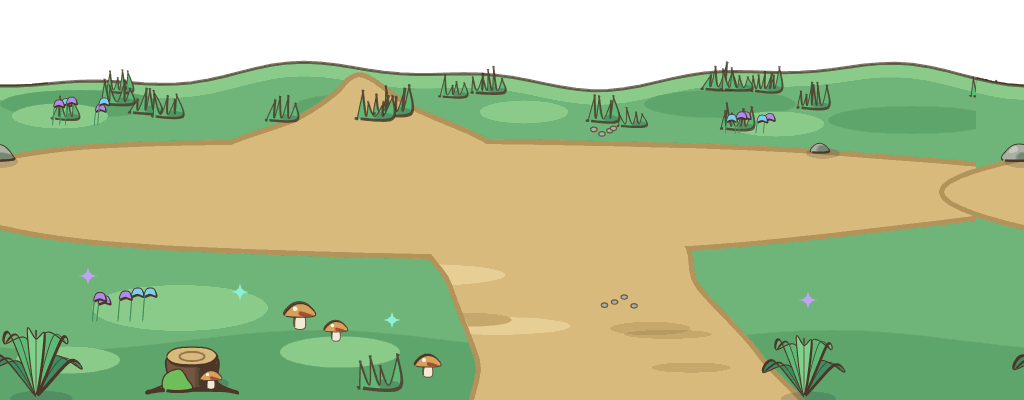
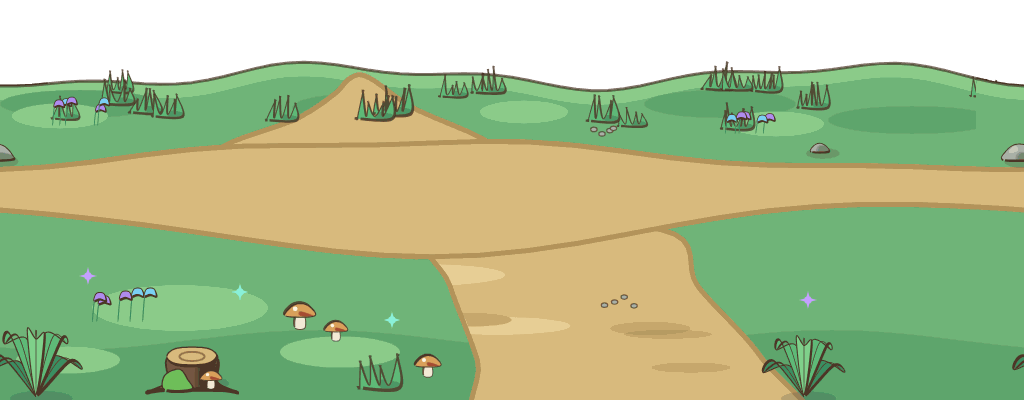
The screen fills the phone, the fight's bars go under the feet, a town street gives something
Robin's notes from his phone (2026-11-02).

The screen: the page's flex box and Phaser both centred the canvas, which pushed the game to one
side. Now only the page does. The canvas widens to the screen's shape, up to 620 design pixels
(mine), with the 412 column staying in the middle; the board, panels, veils, fight backdrops and
the character screen take the full width. Mitch, AD's ground strips recopied, their road runs on
past both sides.

The fight: health above mana (Robin), and the bars and words under the fighters' feet (Robin), on
the ground. Compact styling waits for Robin's pick from Mitch, AD's options.

Town spots: a street is never empty now; a small kindness, some health, mana or a few coins (mine,
for Robin to feel). The HUD and the landing line say the place's name, or "The road".

diff --git a/Game Developer/client/src/scenes/FightScene.ts b/Game Developer/client/src/scenes/FightScene.ts
@@ -16,7 +16,7 @@ import { abilityIcon, fly, HeldEffects, Owl, playOnce, preloadEffects } from '..
 import { sfx } from '../feel.ts';
 import { Hero, HERO_FIGHT_SCALE, heroReady } from '../hero.ts';
 import { INK, kitReady, plate } from '../kit.ts';
-import { COLORS, DESIGN_WIDTH, FONT, HUD_HEIGHT, FONT_DISPLAY } from '../layout.ts';
+import { COLORS, DESIGN_WIDTH, FONT, HUD_HEIGHT, FONT_DISPLAY, SCREEN_WIDTH } from '../layout.ts';
 import type { GameHolder } from '../game-holder.ts';
 import { gearIn, type Prize } from '../loot.ts';
 import { rememberMessage } from '../messages.ts';
@@ -53,6 +53,8 @@ const METER_PIP: Partial<Record<ClassId, string>> = { rogue: 'fight/meter-pip-tr
 
 /** The title stops short of the ? at the top right. */
 const TITLE_X = 180;
+/** How far under the fighters' feet the first bar sits. */
+const BAR_BELOW = 20;
 const TITLE_W = 340;
 
 /** Where the buttons sit, in design pixels (the driver taps them here). Two rows of two, and a row for Flee or Back. */
@@ -117,8 +119,6 @@ export class FightScene extends Phaser.Scene {
   private held!: HeldEffects;
   private owl: Owl | null = null;
   private feetY = 0;
-  private tallEnemy = false;
-  private enemyBarY = 0;
   private heroBar!: Bar;
   private manaBar!: Bar;
   private heroStatus!: Phaser.GameObjects.Text;
@@ -177,13 +177,13 @@ export class FightScene extends Phaser.Scene {
     this.enemyMaxHp = enemy.maxHp;
 
     // The screen covers the band and the HUD's strip and takes every touch, so nothing reaches the board under it.
-    this.add.rectangle(CENTRE, (HUD_HEIGHT + DESIGN_WIDTH * 0 + 915) / 2, DESIGN_WIDTH, 915 - HUD_HEIGHT, 0x151826, 1).setInteractive();
+    this.add.rectangle(CENTRE, (HUD_HEIGHT + DESIGN_WIDTH * 0 + 915) / 2, SCREEN_WIDTH, 915 - HUD_HEIGHT, 0x151826, 1).setInteractive();
     const board = this.game_.state.board;
     const theme = board.areas[board.spaces[fight.space]?.area ?? '']?.theme ?? board.areas[board.spaces[me.space]?.area ?? '']?.theme ?? 'meadow';
     this.backdrop = new Backdrop(this, theme, L.groundY, L.stripY);
     const kit = kitReady(this);
     if (kit) {
-      plate(this, 'panel_bottom', CENTRE, (L.stripY + 915) / 2, DESIGN_WIDTH, 915 - L.stripY);
+      plate(this, 'panel_bottom', CENTRE, (L.stripY + 915) / 2, SCREEN_WIDTH, 915 - L.stripY);
       plate(this, 'panel_message', CENTRE, L.messageY + 22, 384, 56);
     }
     const feetY = this.backdrop.feetY;
@@ -201,7 +201,6 @@ export class FightScene extends Phaser.Scene {
     // The contact shadows, then the figures, so they stand on the ground.
     this.add.ellipse(L.heroX, feetY, 64, 16, 0x000000, 0.22);
     const enemyArt = creatureReady(this, enemy.id);
-    let enemyTop: number;
     if (enemyArt) {
       this.enemy = new Figure(this, enemy.id, L.enemyX, feetY);
       if (enemy.phase === 2) this.enemy.setPhase(2);
@@ -209,34 +208,28 @@ export class FightScene extends Phaser.Scene {
       this.add.ellipse(L.enemyX + shadow.dx, feetY, shadow.width, Math.max(14, shadow.width * 0.16), 0x000000, 0.22);
       this.enemy.sprite.setDepth(1);
       this.enemyBody = this.enemy.sprite;
-      enemyTop = feetY - this.enemy.headHeight();
     } else {
       this.add.ellipse(L.enemyX, feetY, 110, 20, 0x000000, 0.22);
       this.enemyBody = this.add.circle(L.enemyX, feetY - 56, 56, ENEMY_COLORS[enemy.role] ?? 0x8f2f3b, 1).setStrokeStyle(4, 0x101318, 1);
       this.add.text(L.enemyX, feetY - 56, enemy.name.charAt(0), { fontFamily: FONT, fontSize: '40px', fontStyle: 'bold', color: '#101318' }).setOrigin(0.5);
-      enemyTop = feetY - 112;
     }
     const enemyBarX = Math.min(L.enemyX, DESIGN_WIDTH - L.barW / 2 - 8);
-    this.enemyBar = new Bar(this, enemyBarX, enemyTop - 26, L.barW, BAR_H, 0xd9534f);
-    // A boss too tall for words over his bar has them under it, clear of the title (mine, 2026-11-02).
-    this.tallEnemy = enemyTop - 26 < L.historyY + 70;
-    this.enemyBarY = enemyTop - 26;
-    this.enemyStatus = this.add.text(enemyBarX, this.tallEnemy ? enemyTop - 12 : enemyTop - 48, '', { fontFamily: FONT, fontSize: '15px', fontStyle: 'bold', color: '#ffd166', stroke: '#1a2030', strokeThickness: 4, align: 'center', wordWrap: { width: 2 * (DESIGN_WIDTH - enemyBarX - 8) } }).setOrigin(0.5, this.tallEnemy ? 0 : 1);
+    // Under the feet, on the ground (Robin, 2026-11-02: "healthbars etc should be under the characters... It can look a little messy and cluttery").
+    this.enemyBar = new Bar(this, enemyBarX, feetY + BAR_BELOW, L.barW, BAR_H, 0xd9534f);
+    this.enemyStatus = this.add.text(enemyBarX, feetY + BAR_BELOW + 14, '', { fontFamily: FONT, fontSize: '15px', fontStyle: 'bold', color: '#ffd166', stroke: '#1a2030', strokeThickness: 4, align: 'center', wordWrap: { width: 2 * (DESIGN_WIDTH - enemyBarX - 8) } }).setOrigin(0.5, 0);
 
-    let heroTop: number;
-    if (heroReady(this, me.classId)) {
+        if (heroReady(this, me.classId)) {
       this.hero = new Hero(this, me, L.heroX, feetY, HERO_FIGHT_SCALE);
       this.hero.face(true);
       this.heroBody = this.hero.root;
-      heroTop = feetY - 150;
     } else {
       this.heroBody = this.add.circle(L.heroX, feetY - 26, 26, CLASS_COLORS[me.classId] ?? 0xffffff, 1).setStrokeStyle(3, 0x101318, 1);
       this.add.text(L.heroX, feetY - 26, cls.name.charAt(0), { fontFamily: FONT, fontSize: '22px', fontStyle: 'bold', color: '#101318' }).setOrigin(0.5);
-      heroTop = feetY - 52;
     }
-    this.heroBar = new Bar(this, L.heroBarX, heroTop - 26, L.barW, BAR_H, COLORS.button);
-    this.manaBar = new Bar(this, L.heroBarX, heroTop - 44, L.barW, 12, COLORS.mana, 0, 'MP');
-    this.heroStatus = this.add.text(L.heroBarX, heroTop - 56, '', { fontFamily: FONT, fontSize: '14px', fontStyle: 'bold', color: '#b8fff4', stroke: '#1a2030', strokeThickness: 4, align: 'center', wordWrap: { width: 2 * (L.heroBarX - 6) } }).setOrigin(0.5, 1);
+    // Health above mana (Robin, 2026-11-02).
+    this.heroBar = new Bar(this, L.heroBarX, feetY + BAR_BELOW, L.barW, BAR_H, COLORS.button);
+    this.manaBar = new Bar(this, L.heroBarX, feetY + BAR_BELOW + 18, L.barW, 12, COLORS.mana, 0, 'MP');
+    this.heroStatus = this.add.text(L.heroBarX, feetY + BAR_BELOW + 28, '', { fontFamily: FONT, fontSize: '14px', fontStyle: 'bold', color: '#b8fff4', stroke: '#1a2030', strokeThickness: 4, align: 'center', wordWrap: { width: 2 * (L.heroBarX - 6) } }).setOrigin(0.5, 0);
 
     this.message = this.add
       .text(CENTRE, L.messageY + 22, fight.shared ? 'A world boss: all who land here fight the same beast and share the reward.' : `${enemy.name} blocks the way!${tips.take('fight') ? ` ${TIP_FIGHT}` : ''}`, { fontFamily: FONT, fontSize: settings.font(15), color: kit ? INK : COLORS.text, align: 'center', wordWrap: { width: 356 } })
@@ -781,9 +774,7 @@ ${used ? 'used' : `${mana} MP${cost ? ` · ${cost}` : ''}`}`,
     this.held.set('poison_drip', !!f.poisoned, heroHead.x, heroHead.y);
     this.held.set('weaken', !!f.weak, heroHead.x, heroHead.y);
     this.held.set('bubble_shield', !!f.barrier, heroChest.x, heroChest.y, 'bubble', 'bubble_pop');
-    // Beside the bar on a tall boss, where it is not under the words.
-    if (this.tallEnemy) this.held.set('windup_tell', !!e.charged, FIGHT_LAYOUT.enemyX - FIGHT_LAYOUT.barW / 2 - 14, this.enemyBarY + 6);
-    else this.held.set('windup_tell', !!e.charged, foeHead.x, foeHead.y - 14);
+    this.held.set('windup_tell', !!e.charged, foeHead.x, Math.max(foeHead.y - 14, FIGHT_LAYOUT.historyY + 34));
     this.held.set('poison_drip', !!e.poison, foeHead.x, foeHead.y + 20);
     this.held.set('weaken', !!e.weakened, foeChest.x, foeChest.y);
     this.held.set('chill', !!e.stunned, foeChest.x, foeChest.y);

diff --git a/Game Developer/client/src/scenes/BoardScene.ts b/Game Developer/client/src/scenes/BoardScene.ts
@@ -39,6 +39,7 @@ import {
   type SpaceKind,
   groundsOf,
   questLine,
+  placeName,
 } from '../../../rules/src/index.ts';
 import type { GameLog } from '../game-log.ts';
 import { audio } from '../audio.ts';
@@ -51,7 +52,7 @@ import { preloadAbilityIcons } from '../effects.ts';
 import { PaintedGround, PAINTED, preloadWorldMap, SEA } from '../worldmap.ts';
 import { fx, hasFrame, icon, itemFrame, preloadKit } from '../kit.ts';
 import { lootReady, preloadLoot, prizesIn, type Prize, type RevealRequest } from '../loot.ts';
-import { COLORS, DESIGN_WIDTH, DPR, FONT, HUD_HEIGHT, THEME_COLORS, VIEW_HEIGHT } from '../layout.ts';
+import { COLORS, DESIGN_WIDTH, DPR, FONT, HUD_HEIGHT, THEME_COLORS, VIEW_HEIGHT, SCREEN_WIDTH } from '../layout.ts';
 import type { GameHolder, Intent, WorldChange } from '../game-holder.ts';
 import { settings } from '../settings.ts';
 import { tips } from '../tips.ts';
@@ -1114,7 +1115,7 @@ export class BoardScene extends Phaser.Scene {
     const cam = this.cameras.main;
     // The band between the HUD panel and the bottom controls; the HUD scene draws over the rest.
     // The band between the HUD and the strip, in canvas pixels (the canvas draws at DPR, hires.ts).
-    cam.setViewport(0, HUD_HEIGHT * DPR, DESIGN_WIDTH * DPR, VIEW_HEIGHT * DPR);
+    cam.setViewport(0, HUD_HEIGHT * DPR, SCREEN_WIDTH * DPR, VIEW_HEIGHT * DPR);
     this.fitBounds();
     cam.setRoundPixels(true);
     this.minZoom = this.overviewZoom();
@@ -1679,7 +1680,8 @@ export class BoardScene extends Phaser.Scene {
     this.walk(walked?.type === 'moved' ? walked.path : path, () => {
       const space = this.game_.state.board.spaces[landed.space]!;
       const kind = SPACE_KIND_DATA[space.kind].label.toLowerCase();
-      const where = space.name ? `on ${space.name} (${kind})` : space.kind === 'normal' ? 'in the wilds' : `on a ${kind}`;
+      const place = placeName(this.game_.state.board, space);
+      const where = space.name ? `on ${space.name} (${kind})` : place ? `in ${place}` : space.kind === 'normal' ? 'on the road' : `on a ${kind}`;
       const notes = traceLine(this.game_.state, landed.space, this.game_.now());
       const story = `${this.describeLanding(moved)}${notes ? ` ${notes}` : ''}`.trim();
       this.log.note(`landed on ${space.id} (${space.kind}): ${story || 'nothing'}`);
@@ -1785,7 +1787,7 @@ export class BoardScene extends Phaser.Scene {
     const s = stats(me);
     const space = this.game_.state.board.spaces[me.space];
     const area = space ? this.game_.state.board.areas[space.area] : undefined;
-    const where = space ? space.name || SPACE_KIND_DATA[space.kind].label : me.space;
+    const where = space ? space.name || placeName(this.game_.state.board, space) || (space.kind === 'normal' ? 'The road' : SPACE_KIND_DATA[space.kind].label) : me.space;
     const withOthers = Object.values(this.game_.state.characters).filter((c) => c.id !== me.id && c.space === me.space).map((c) => c.name);
     if (area) audio.music(`music/${area.theme === 'meadow' ? 'meadows' : area.theme}-board`);
     // A new area: what was only for the last one leaves memory (chapter 2, step 1). A fight loads its own.

diff --git a/Game Developer/rules/src/game.ts b/Game Developer/rules/src/game.ts
@@ -329,11 +329,8 @@ function land(state: GameState, c: Character, space: Space, action: Action, rng:
       if (quest?.kind === 'mini' && quest.area === space.area && quest.target && rng.next() < QUESTS.kinds.mini.spawnChance!) {
         return begin(state, c, quest.target, space.id, false, action, rng, events);
       }
-      // Nothing hunts inside a town's walls (mine, from Mitch, AD's map): a creature lives only in its own place (Robin, 2026-11-02).
-      if (inTownWalls(state.board, space)) {
-        events.push({ type: 'nothing', action: id, player, text: 'Safe inside the town walls.' });
-        return { state: withCharacter(state, c), events };
-      }
+      // Nothing hunts inside a town's walls (Robin, 2026-11-02: creatures only in their own place), and a street is never empty: "its weird with town spaces where nothing happens".
+      if (inTownWalls(state.board, space)) return streetMoment(state, c, tier, action, rng, events);
       const what = surprise(rng);
       if (what === 'chest') return openChest(state, c, tier, space.area, action, rng, events);
       if (what === 'event' && area && EVENTS[area.theme]) return themeEvent(state, c, area.theme, tier, action, rng, events);
@@ -479,6 +476,17 @@ function openChest(state: GameState, c: Character, tier: number, areaId: string,
     next = roll < 0.4 ? giveItem(next, flaskId('potion', tier), 1, action, events) : roll < 0.6 ? giveItem(next, flaskId('mana-potion', tier), 1, action, events) : giveItem(next, cards[rng.int(cards.length) - 1]!, 1, action, events);
   }
   return { state: withCharacter(s, next), events };
+}
+
+/** A moment on a town's street: a little kindness, drawn from the stream. */
+function streetMoment(state: GameState, c: Character, tier: number, action: Action, rng: Rng, events: GameEvent[]): ApplyResult {
+  const lines = (EVENTS as unknown as { streets: { text: string; kind: 'heal' | 'mana' | 'gold'; value: number }[] }).streets;
+  const ev = lines[rng.int(lines.length) - 1]!;
+  const s = stats(c);
+  const amount = ev.kind === 'gold' ? ev.value * tier : Math.max(1, Math.round((ev.kind === 'heal' ? s.maxHp : s.maxMana) * ev.value));
+  events.push({ type: 'themeEvent', action: action.id, player: action.player, text: ev.text, kind: ev.kind, amount });
+  const next = ev.kind === 'gold' ? giveGold(c, amount, action, events) : ev.kind === 'heal' ? heal(c, amount, action, events) : restoreMana(c, amount, action, events);
+  return { state: withCharacter(state, next), events };
 }
 
 /** The theme's event on a wild spot (mine, 2026-11-01): a share of HP or mana, gold by the tier, a flask or a card. */

diff --git a/Game Developer/client/src/scenes/HudScene.ts b/Game Developer/client/src/scenes/HudScene.ts
@@ -6,7 +6,7 @@
 import Phaser from 'phaser';
 import { CLASS_DATA, WORLD_DATA } from '../../../rules/src/index.ts';
 import type { GameLog } from '../game-log.ts';
-import { COLORS, DESIGN_HEIGHT, DESIGN_WIDTH, FONT, FONT_DISPLAY, HUD_HEIGHT, VIEW_HEIGHT } from '../layout.ts';
+import { COLORS, DESIGN_HEIGHT, DESIGN_WIDTH, FONT, FONT_DISPLAY, HUD_HEIGHT, VIEW_HEIGHT, SCREEN_WIDTH } from '../layout.ts';
 import type { GameHolder } from '../game-holder.ts';
 import { audio, type LoopHandle } from '../audio.ts';
 import { feel } from '../feel.ts';
@@ -331,8 +331,8 @@ export class HudScene extends Phaser.Scene {
   private drawPanel(): void {
     const cream = this.kit ? CREAM : COLORS.text;
     const dim = this.kit ? '#fff8e8' : COLORS.dim;
-    if (this.kit) plate(this, 'panel_hud', DESIGN_WIDTH / 2, HUD_HEIGHT / 2, DESIGN_WIDTH, HUD_HEIGHT);
-    else this.add.rectangle(DESIGN_WIDTH / 2, HUD_HEIGHT / 2, DESIGN_WIDTH, HUD_HEIGHT, COLORS.panel, 1);
+    if (this.kit) plate(this, 'panel_hud', DESIGN_WIDTH / 2, HUD_HEIGHT / 2, SCREEN_WIDTH, HUD_HEIGHT);
+    else this.add.rectangle(DESIGN_WIDTH / 2, HUD_HEIGHT / 2, SCREEN_WIDTH, HUD_HEIGHT, COLORS.panel, 1);
     this.name = this.add.text(16, 10, '', { fontFamily: FONT_DISPLAY, fontSize: '20px', fontStyle: 'bold', color: cream, stroke: '#3a2410', strokeThickness: 3 });
     this.levelText = this.add.text(DESIGN_WIDTH - 92, 14, '', { fontFamily: FONT_DISPLAY, fontSize: '16px', fontStyle: 'bold', color: cream, stroke: '#3a2410', strokeThickness: 3 }).setOrigin(1, 0);
 
@@ -368,8 +368,8 @@ export class HudScene extends Phaser.Scene {
   private drawControls(): void {
     // The band under the world: the chips, the message box and the buttons, so the world never shows through there.
     const stripTop = HUD_HEIGHT + VIEW_HEIGHT;
-    if (this.kit) plate(this, 'panel_bottom', DESIGN_WIDTH / 2, (stripTop + DESIGN_HEIGHT) / 2, DESIGN_WIDTH, DESIGN_HEIGHT - stripTop);
-    else this.add.rectangle(DESIGN_WIDTH / 2, (stripTop + DESIGN_HEIGHT) / 2, DESIGN_WIDTH, DESIGN_HEIGHT - stripTop, COLORS.panel, 1);
+    if (this.kit) plate(this, 'panel_bottom', DESIGN_WIDTH / 2, (stripTop + DESIGN_HEIGHT) / 2, SCREEN_WIDTH, DESIGN_HEIGHT - stripTop);
+    else this.add.rectangle(DESIGN_WIDTH / 2, (stripTop + DESIGN_HEIGHT) / 2, SCREEN_WIDTH, DESIGN_HEIGHT - stripTop, COLORS.panel, 1);
     this.chipRow = this.add.container(DESIGN_WIDTH / 2, CHIPS_Y);
 
     if (this.kit) this.messagePlate = plate(this, 'panel_message', DESIGN_WIDTH / 2, MESSAGE_BOTTOM - 22, MESSAGE_W, 44);

diff --git a/Game Developer/client/src/scenes/CreateScene.ts b/Game Developer/client/src/scenes/CreateScene.ts
@@ -8,7 +8,7 @@ import { ABILITIES, CLASS_DATA, CLASS_IDS, MAX_NAME, plainGear, WORLD_DATA, type
 import { Hero, heroReady, preloadHero, releaseClasses } from '../hero.ts';
 import type { GameHolder } from '../game-holder.ts';
 import type { GameLog } from '../game-log.ts';
-import { COLORS, DESIGN_HEIGHT, DESIGN_WIDTH, FONT, FONT_DISPLAY } from '../layout.ts';
+import { COLORS, DESIGN_HEIGHT, DESIGN_WIDTH, FONT, FONT_DISPLAY, SCREEN_WIDTH } from '../layout.ts';
 import { feel, sfx } from '../feel.ts';
 import backdropJpg from '../../../assets/brand/character_backdrop.jpg';
 import wordmarkPng from '../../../assets/brand/wordmark.png';
@@ -77,7 +77,7 @@ export class CreateScene extends Phaser.Scene {
   }
 
   create(): void {
-    if (this.textures.exists('character-backdrop')) this.add.image(CENTRE, DESIGN_HEIGHT / 2, 'character-backdrop').setScale(0.5);
+    if (this.textures.exists('character-backdrop')) this.add.image(CENTRE, DESIGN_HEIGHT / 2, 'character-backdrop').setScale((0.5 * SCREEN_WIDTH) / DESIGN_WIDTH);
     if (this.textures.exists('wordmark')) this.add.image(CENTRE, 62, 'wordmark').setScale(210 / 627);
     else this.add.text(CENTRE, 62, WORLD_DATA.name, { fontFamily: FONT_DISPLAY, fontSize: '36px', fontStyle: 'bold', color: COLORS.text }).setOrigin(0.5);
     this.add.text(CENTRE, 118, this.deps.where, { fontFamily: FONT, fontSize: '14px', fontStyle: 'bold', color: '#ffffff', stroke: '#15102a', strokeThickness: 4 }).setOrigin(0.5);
@@ -112,8 +112,9 @@ export class CreateScene extends Phaser.Scene {
     const place = (): void => {
       const rect = this.game.canvas.getBoundingClientRect();
       const host = parent.getBoundingClientRect();
-      const s = rect.width / DESIGN_WIDTH;
-      this.nameField.style.left = `${rect.left - host.left + (input.x - input.w / 2) * s}px`;
+      const s = rect.width / SCREEN_WIDTH;
+      const inset = (SCREEN_WIDTH - DESIGN_WIDTH) / 2;
+      this.nameField.style.left = `${rect.left - host.left + (inset + input.x - input.w / 2) * s}px`;
       this.nameField.style.top = `${rect.top - host.top + (input.y - input.h / 2) * s}px`;
       this.nameField.style.width = `${input.w * s}px`;
       this.nameField.style.height = `${input.h * s}px`;

diff --git a/Game Developer/client/src/backdrop.ts b/Game Developer/client/src/backdrop.ts
@@ -15,7 +15,7 @@ import forestGroundPng from '../../assets/forest_fight/ground.png';
 import forestMidPng from '../../assets/forest_fight/mid.png';
 import forestMotesPng from '../../assets/forest_fight/motes.png';
 import forestNearPng from '../../assets/forest_fight/near.png';
-import { DESIGN_WIDTH, HUD_HEIGHT } from './layout.ts';
+import { DESIGN_WIDTH, HUD_HEIGHT, SCREEN_WIDTH } from './layout.ts';
 
 interface Strip {
   key: string;
@@ -94,8 +94,8 @@ export class Backdrop {
     const top = b?.sky.top ?? 0x3a4a6a;
     const low = b?.sky.bottom ?? 0x8aa0b8;
     sky.fillGradientStyle(top, top, low, low, 1);
-    sky.fillRect(0, HUD_HEIGHT, DESIGN_WIDTH, groundY - HUD_HEIGHT);
-    scene.add.rectangle(DESIGN_WIDTH / 2, (groundY + bottom) / 2, DESIGN_WIDTH, bottom - groundY, b?.soil ?? 0x3a3024, 1);
+    sky.fillRect((DESIGN_WIDTH - SCREEN_WIDTH) / 2, HUD_HEIGHT, SCREEN_WIDTH, groundY - HUD_HEIGHT);
+    scene.add.rectangle(DESIGN_WIDTH / 2, (groundY + bottom) / 2, SCREEN_WIDTH, bottom - groundY, b?.soil ?? 0x3a3024, 1);
     if (!b) {
       this.feetY = groundY;
       return;
@@ -108,8 +108,10 @@ export class Backdrop {
       const scale = s.tileScale ?? 0.5;
       // The camera holds a scroll for the screen's density; a strip that scrolls slower must start that much further along, or its right side falls short.
       const along = (s.scroll - 1) * scene.cameras.main.scrollX;
-      const sprite = scene.add.tileSprite(DESIGN_WIDTH / 2 + along, lowest - shown / 2, DESIGN_WIDTH, shown, s.key).setTileScale(scale).setScrollFactor(s.scroll, 1);
+      const sprite = scene.add.tileSprite(DESIGN_WIDTH / 2 + along, lowest - shown / 2, SCREEN_WIDTH, shown, s.key).setTileScale(scale).setScrollFactor(s.scroll, 1);
       sprite.tilePositionY = (s.h - shown) / scale;
+      // The strip is composed for the column: a wider screen shows more of it to each side, the column where it was.
+      sprite.tilePositionX = (DESIGN_WIDTH - SCREEN_WIDTH) / 2 / scale;
       if (s.drift) this.drifting.push({ sprite, drift: s.drift });
     }
     this.feetY = groundY + b.feet;

diff --git a/Game Developer/client/src/main.ts b/Game Developer/client/src/main.ts
@@ -4,7 +4,7 @@ import type { GameHolder } from './game-holder.ts';
 import { GameLog } from './game-log.ts';
 import { audio } from './audio.ts';
 import { HIRES_PLUGIN } from './hires.ts';
-import { COLORS, DESIGN_HEIGHT, DESIGN_WIDTH, DPR } from './layout.ts';
+import { COLORS, DESIGN_HEIGHT, DESIGN_WIDTH, SCREEN_WIDTH, DPR } from './layout.ts';
 import { LocalGame, TICK_MS } from './local-game.ts';
 import { ACCOUNT_KEY, RECOVER_KEY, RemoteGame, serverUrl, storedAccount, type Credentials } from './remote-game.ts';
 import { ConnectScene } from './scenes/ConnectScene.ts';
@@ -93,14 +93,15 @@ const phaser = new Phaser.Game({
   type: Phaser.AUTO,
   parent: 'game',
   // The canvas at the phone's pixel density; the scenes still work in the design size (hires.ts).
-  width: DESIGN_WIDTH * DPR,
+  width: SCREEN_WIDTH * DPR,
   height: DESIGN_HEIGHT * DPR,
   backgroundColor: COLORS.background,
   banner: false,
   dom: { createContainer: true }, // the name field on the character screen
   scale: {
     mode: Phaser.Scale.FIT,
-    autoCenter: Phaser.Scale.CENTER_BOTH,
+    // The page's own flex box centres the canvas; Phaser's centring on top of it pushed the game to one side (Robin's picture).
+    autoCenter: Phaser.Scale.NO_CENTER,
   },
   scene: first,
   plugins: { scene: [HIRES_PLUGIN] },

diff --git a/Game Developer/client/src/scenes/RevealScene.ts b/Game Developer/client/src/scenes/RevealScene.ts
@@ -9,7 +9,7 @@
 import Phaser from 'phaser';
 import type { GameLog } from '../game-log.ts';
 import { feel, sfx } from '../feel.ts';
-import { COLORS, DESIGN_WIDTH, FONT, FONT_DISPLAY, HUD_HEIGHT, RARITY_INK, RARITY_TINT, VIEW_HEIGHT } from '../layout.ts';
+import { COLORS, DESIGN_WIDTH, FONT, FONT_DISPLAY, HUD_HEIGHT, RARITY_INK, RARITY_TINT, VIEW_HEIGHT, SCREEN_WIDTH } from '../layout.ts';
 import { CARD, cardWords, ensureLootClips, LOOT_KEYS, LOOT_SCALE, tierOf, type RevealRequest, type Tier } from '../loot.ts';
 import { gearIcon } from '../hero.ts';
 import { settings } from '../settings.ts';
@@ -102,7 +102,7 @@ export class RevealScene extends Phaser.Scene {
   create(): void {
     ensureLootClips(this);
     const { titleY, cardY, chestY, mouthY, hintY } = REVEAL_LAYOUT;
-    this.veil = this.add.rectangle(CENTRE, HUD_HEIGHT + VIEW_HEIGHT / 2, DESIGN_WIDTH, VIEW_HEIGHT, 0x0a0c14, this.quick ? 0.88 : 0).setInteractive();
+    this.veil = this.add.rectangle(CENTRE, HUD_HEIGHT + VIEW_HEIGHT / 2, SCREEN_WIDTH, VIEW_HEIGHT, 0x0a0c14, this.quick ? 0.88 : 0).setInteractive();
     this.veil.on('pointerdown', () => this.tap());
     if (!this.quick) this.tweens.add({ targets: this.veil, fillAlpha: 0.88, duration: 150 });
 

diff --git a/Game Developer/client/src/scenes/GuideScene.ts b/Game Developer/client/src/scenes/GuideScene.ts
@@ -9,7 +9,7 @@ import type { GameHolder } from '../game-holder.ts';
 import { abilityIcon } from '../effects.ts';
 import { sfx } from '../feel.ts';
 import { INK, INK_DIM, kitReady, plate } from '../kit.ts';
-import { COLORS, DESIGN_HEIGHT, DESIGN_WIDTH, FONT, FONT_DISPLAY, HUD_HEIGHT } from '../layout.ts';
+import { COLORS, DESIGN_HEIGHT, DESIGN_WIDTH, FONT, FONT_DISPLAY, HUD_HEIGHT, SCREEN_WIDTH } from '../layout.ts';
 import { makeButton } from '../ui.ts';
 
 export interface GuideSceneDeps {
@@ -52,7 +52,7 @@ export class GuideScene extends Phaser.Scene {
   create(): void {
     const top = HUD_HEIGHT + 4;
     const bottom = DESIGN_HEIGHT - 6;
-    this.add.rectangle(CENTRE, (HUD_HEIGHT + DESIGN_HEIGHT) / 2, DESIGN_WIDTH, DESIGN_HEIGHT - HUD_HEIGHT, 0x0b0d14, 0.6).setInteractive();
+    this.add.rectangle(CENTRE, (HUD_HEIGHT + DESIGN_HEIGHT) / 2, SCREEN_WIDTH, DESIGN_HEIGHT - HUD_HEIGHT, 0x0b0d14, 0.6).setInteractive();
     if (kitReady(this)) plate(this, 'panel_sheet', CENTRE, (top + bottom) / 2, DESIGN_WIDTH - 16, bottom - top);
     const ink = kitReady(this) ? INK : COLORS.text;
     this.add.text(26, top + 14, 'Guide', { fontFamily: FONT_DISPLAY, fontSize: '26px', fontStyle: 'bold', color: ink });

diff --git a/Game Developer/client/src/scenes/AskScene.ts b/Game Developer/client/src/scenes/AskScene.ts
@@ -6,7 +6,7 @@
 import Phaser from 'phaser';
 import { feel, sfx } from '../feel.ts';
 import { hasFrame, icon, INK, INK_DIM, kitReady, plate } from '../kit.ts';
-import { COLORS, DESIGN_WIDTH, FONT, FONT_DISPLAY, HUD_HEIGHT, VIEW_HEIGHT } from '../layout.ts';
+import { COLORS, DESIGN_WIDTH, FONT, FONT_DISPLAY, HUD_HEIGHT, VIEW_HEIGHT, SCREEN_WIDTH } from '../layout.ts';
 import { settings } from '../settings.ts';
 import { makeButton } from '../ui.ts';
 
@@ -51,7 +51,7 @@ export class AskScene extends Phaser.Scene {
     const ink = kit ? INK : COLORS.text;
     const dim = kit ? INK_DIM : COLORS.dim;
     const quick = settings.get().fewerEffects;
-    const veil = this.add.rectangle(CENTRE, HUD_HEIGHT + VIEW_HEIGHT / 2, DESIGN_WIDTH, VIEW_HEIGHT, 0x0a0c14, quick ? 0.72 : 0).setInteractive();
+    const veil = this.add.rectangle(CENTRE, HUD_HEIGHT + VIEW_HEIGHT / 2, SCREEN_WIDTH, VIEW_HEIGHT, 0x0a0c14, quick ? 0.72 : 0).setInteractive();
     if (!quick) this.tweens.add({ targets: veil, fillAlpha: 0.72, duration: 160 });
 
     // Laid out from the top down, then centred in the band.

diff --git a/Game Developer/client/src/kit.ts b/Game Developer/client/src/kit.ts
@@ -13,7 +13,7 @@ import uiJson from '../../assets/ui/ui.json?url';
 import uiPng from '../../assets/ui/ui.png';
 import softJson from '../../assets/ui/ui_soft.json?url';
 import softPng from '../../assets/ui/ui_soft.png';
-import { DESIGN_WIDTH, HUD_HEIGHT, VIEW_HEIGHT } from './layout.ts';
+import { DESIGN_WIDTH, HUD_HEIGHT, VIEW_HEIGHT, SCREEN_WIDTH } from './layout.ts';
 
 export const KIT = 'ui';
 export const KIT_SOFT = 'ui_soft';
@@ -81,10 +81,10 @@ export function sheet(scene: Phaser.Scene): void {
   const x = DESIGN_WIDTH / 2;
   const y = HUD_HEIGHT + VIEW_HEIGHT / 2;
   if (!kitReady(scene)) {
-    scene.add.rectangle(x, y, DESIGN_WIDTH, VIEW_HEIGHT, 0x151826, 1).setInteractive();
+    scene.add.rectangle(x, y, SCREEN_WIDTH, VIEW_HEIGHT, 0x151826, 1).setInteractive();
     return;
   }
-  scene.add.rectangle(x, y, DESIGN_WIDTH, VIEW_HEIGHT, 0x0b0d14, 0.55).setInteractive();
+  scene.add.rectangle(x, y, SCREEN_WIDTH, VIEW_HEIGHT, 0x0b0d14, 0.55).setInteractive();
   plate(scene, 'panel_sheet', x, y, DESIGN_WIDTH - 20, VIEW_HEIGHT - 16);
 }
 

diff --git a/Game Developer/client/src/layout.ts b/Game Developer/client/src/layout.ts
@@ -1,6 +1,12 @@
 // The design size: an Android phone, portrait (mine, 2026-10-31). Phaser scales it to fit whatever screen it gets.
 export const DESIGN_WIDTH = 412;
 export const DESIGN_HEIGHT = 915;
+/**
+ * The canvas's width in design pixels (Robin, 2026-11-02: "why isnt the game centered and filling out the screen"). The game's
+ * column stays DESIGN_WIDTH wide, centred by the camera; a screen wider than the column, as a phone with a browser's bars is, sees
+ * more of the world and wider panels. Beyond the limit, such as on a computer, the rest is left dark.
+ */
+export const SCREEN_WIDTH = typeof window === 'undefined' ? DESIGN_WIDTH : Math.max(DESIGN_WIDTH, Math.min(620, Math.round((DESIGN_HEIGHT * window.innerWidth) / Math.max(1, window.innerHeight))));
 /** The device pixel ratio the canvas draws at (hires.ts): the phone's, capped at 2 for the fill rate; 1 where there is no window. */
 export const DPR = typeof window === 'undefined' ? 1 : Math.min(2, Math.max(1, Math.round((window.devicePixelRatio || 1) * 2) / 2));
 
